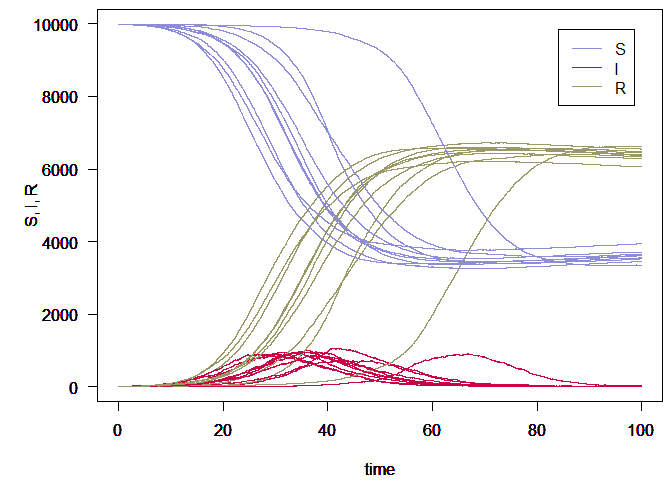
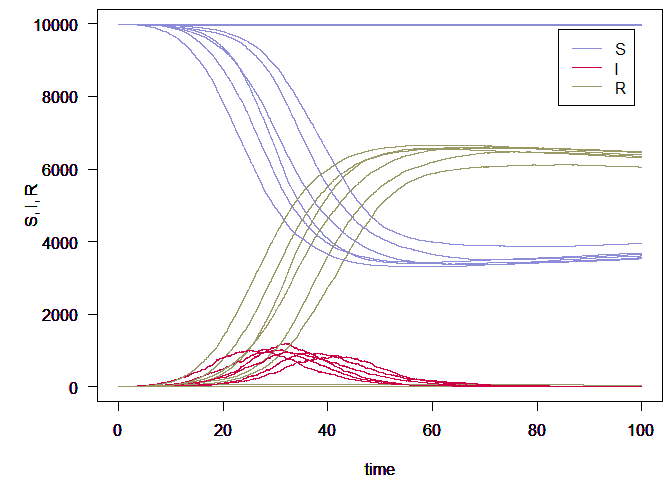
Added latest figures and updated Readmes

diff --git a/README.md b/README.md
@@ -49,7 +49,19 @@ The model is run once for 10,000 iterations with a time step of 0.01
 
 <div class="figure" style="text-align: center">
 
-<img src="man/figures/README-unnamed-chunk-2-1.png" alt="SIR simulation run once, N = 10,000 and dt = 0.01" width="0.95\linewidth" />
+<img src="man/figures/README-unnamed-chunk-2-1.png" alt="SIR simulation run once, N = 10,000 and dt = 0.01" width="100%" />
+
+<p class="caption">
+
+SIR simulation run once, N = 10,000 and dt = 0.01
+
+</p>
+
+</div>
+
+<div class="figure" style="text-align: center">
+
+<img src="man/figures/README-unnamed-chunk-2-2.png" alt="SIR simulation run once, N = 10,000 and dt = 0.01" width="100%" />
 
 <p class="caption">
 
